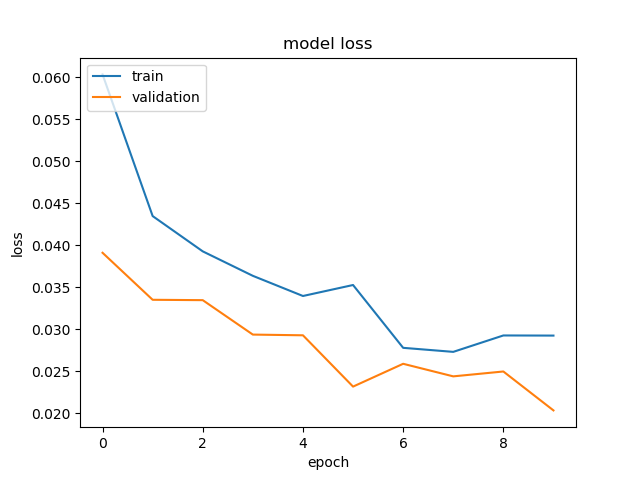
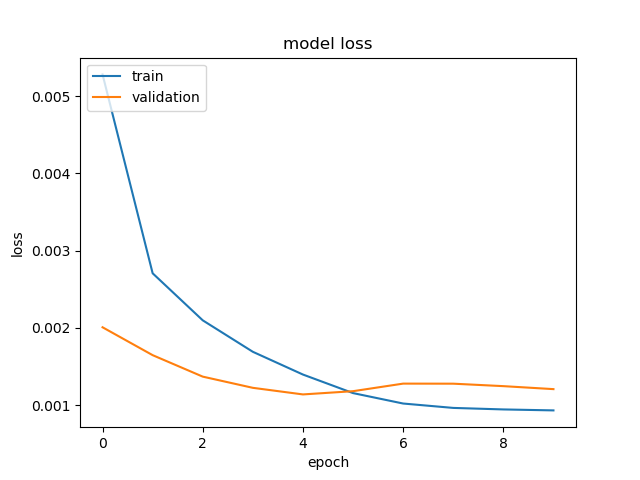
add part 1 code + LSTM model of part 2

diff --git a/Code/model.py b/Code/model.py
@@ -3,10 +3,12 @@ from keras.layers import Dense
 from keras.layers import LSTM
 import matplotlib.pyplot as plt 
 import time 
+import pandas as pd
+import numpy as np
 
 class Model:
     def __init__(self, train_X, train_y, test_X, test_y, 
-                loss_function, optimizer, 
+                loss_function, optimizer, validation_split,
                 number_of_epochs, batch_size, 
                 file_save_name):
 
@@ -19,18 +21,11 @@ class Model:
         self.optimizer = optimizer
         self.number_of_epochs = number_of_epochs
         self.batch_size = batch_size
+        self.validation_split = validation_split
 
         self.file_save_name = file_save_name
 
     def plot_accuracy_and_loss(self, history):
-        plt.plot(history.history['acc'])
-        plt.plot(history.history['val_acc'])
-        plt.title('model accuracy')
-        plt.ylabel('accuracy')
-        plt.xlabel('epoch')
-        plt.legend(['train', 'validation'], loc='upper left')
-        plt.savefig(self.file_save_name+'_accuracy.png')
-        plt.cla()
         plt.plot(history.history['loss'])
         plt.plot(history.history['val_loss'])
         plt.title('model loss')
@@ -40,29 +35,74 @@ class Model:
         plt.savefig(self.file_save_name+'_loss.png')
         plt.cla()
 
+
+    def actual_vs_predicted_values_visualization(self, actual, predicted):
+        # scatter
+        plt.scatter(actual['train'], predicted['train'])
+        plt.title('train actual vs predicted')
+        plt.ylabel('predicted values')
+        plt.xlabel('actual values')
+        plt.savefig(self.file_save_name+'_train_compare_scatter.png')
+        plt.cla()
+        plt.scatter(actual['test'], predicted['test'])
+        plt.title('test actual vs predicted')
+        plt.ylabel('predicted values')
+        plt.xlabel('actual values')
+        plt.savefig(self.file_save_name+'_test_compare_scatter.png')
+        plt.cla()
+        # time series
+        data = {
+            'A': [x[0] for x in np.append(actual['train'], actual['test'], axis = 0)],
+            'P': [x[0] for x in np.append(predicted['train'], predicted['test'], axis = 0)]
+        }
+
+        plt.plot(data['P'], color= 'red')
+        plt.plot(data['A'], color='green')
+        plt.title('actual (green) vs predicted (red)')
+        plt.savefig(self.file_save_name+'_compare_timeseries.png')
+        plt.cla()
+
+        # subplots 
+        fig, axs = plt.subplots(2)
+        fig.suptitle('actual (green) vs predicted (red)')
+        axs[0].plot(data['P'], color= 'red')
+        axs[1].plot(data['A'], color='green')
+        plt.savefig(self.file_save_name+'_subplots_compare_timeseries.png')
+        plt.cla()
+
 class LSTM_Model(Model):
     def __init__(self, train_X, train_y, test_X, test_y, 
-                loss_function, optimizer, 
+                loss_function, optimizer, validation_split,
                 number_of_epochs, batch_size, file_save_name):
 
         Model.__init__(self, train_X, train_y, test_X, test_y, 
-                loss_function, optimizer, 
+                loss_function, optimizer, validation_split,
                 number_of_epochs, batch_size, file_save_name)
 
         self.model = self.create_model()
     
     def create_model(self):
         model = Sequential()
-        model.add(LSTM(50, input_shape=(self.train_X.shape[1], self.train_X.shape[2])))
+        model.add(LSTM(30, return_sequences= True, input_shape=(self.train_X.shape[1], self.train_X.shape[2])))
+        model.add(LSTM(30))
         model.add(Dense(1))
-        model.compile(loss=self.loss_function, optimizer=self.optimizer, metrics = ['accuracy'])
+        model.compile(loss=self.loss_function, optimizer=self.optimizer)
         return model 
 
     def train_and_report_results(self):
         training_start_time = time.time()
-        history = self.model.fit(self.train_X, self.train_y, epochs=self.number_of_epochs, batch_size=self.batch_size, validation_data=(self.test_X, self.test_y), verbose=2, shuffle=False)
+
+        history = self.model.fit(self.train_X, self.train_y, epochs=self.number_of_epochs, batch_size=self.batch_size, validation_split=self.validation_split, verbose=2, shuffle=False)
+        
         training_end_time = time.time()
         print('Training Duration:', training_end_time-training_start_time)
+
         self.plot_accuracy_and_loss(history)
+
+        train_yhat = self.model.predict(self.train_X)
+        test_yhat = self.model.predict(self.test_X)
+        actual = {'train': self.train_y, 'test': self.test_y}
+        predicted = {'train': train_yhat, 'test': test_yhat}
+        self.actual_vs_predicted_values_visualization(actual, predicted)
 
     

diff --git a/Code/main.py b/Code/main.py
@@ -6,14 +6,14 @@ import model
 def run_part_1_code(train_X, train_y, test_X, test_y):
     # LSTM Model 
     lstm_1 = model.LSTM_Model(train_X, train_y, test_X, test_y, 
-                loss_function = constants.loss_function, optimizer = constants.optimizer, 
+                loss_function = constants.loss_function, optimizer = constants.optimizer, validation_split = constants.validation_split,
                 number_of_epochs = constants.number_of_epochs, batch_size = constants.batch_size, 
                 file_save_name = '../Generated-Files/basic_lstm_model')
     lstm_1.train_and_report_results()
 
 def main():
     data = data_processor.read_data(constants.path_to_data)
-    train_X, train_y, test_X, test_y = data_processor.split_and_prep_data(data, split_point = constants.test_train_split, window_size = constants.window_size)
+    train_X, train_y, test_X, test_y = data_processor.split_and_prep_data(data, split_point = (constants.trian_split_part, constants.test_split_part), window_size = constants.window_size)
 
     run_part_1_code(train_X, train_y, test_X, test_y)
 

diff --git a/Code/data_processor.py b/Code/data_processor.py
@@ -9,14 +9,13 @@ def read_data(file_path):
     return np.load(file_path)
 
 def prep_data_for_model(data, window_size):
-    print(data.shape)
     X, y = [], []
     for i in range(data.shape[0]):
         if i<=window_size-1:
             continue 
         else:
             X.append(data[i-(window_size):i])
-            y.append(data[i][0])
+            y.append([data[i][0]])
     X = np.array(X)
     y = np.array(y)
     return X, y
@@ -24,6 +23,6 @@ def prep_data_for_model(data, window_size):
 
 def split_and_prep_data(data, split_point, window_size):
     X, y = prep_data_for_model(data, window_size)
-    print(X.shape, y.shape)
-    X_train, X_test, y_train, y_test = X[:split_point], X[split_point:], y[:split_point], y[split_point:]
+    X_train, y_train = X[:split_point[0]], y[:split_point[0]]
+    X_test, y_test = X[split_point[0]+1:split_point[1]], y[split_point[0]+1:split_point[1]]
     return X_train, y_train, X_test, y_test

diff --git a/Code/constants.py b/Code/constants.py
@@ -1,10 +1,12 @@
 path_to_data = '../Data/polution_dataSet.npy'
 
 window_size = 11
-test_train_split = 30000
+trian_split_part = 12000
+test_split_part = 15001
 
 
-loss_function = 'mae'
+loss_function = 'mean_squared_error'
 optimizer = 'adam'
 number_of_epochs = 10
-batch_size = 1000
+batch_size = 32
+validation_split = 0.1
